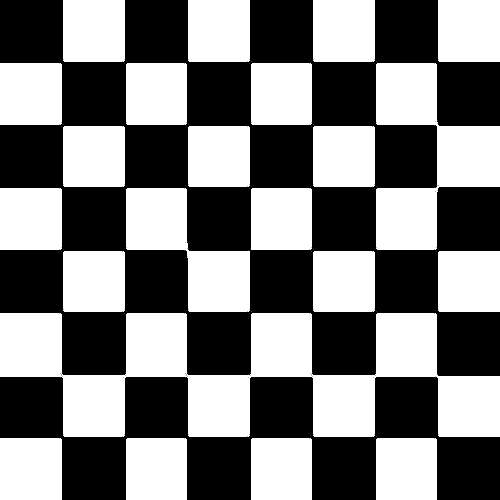
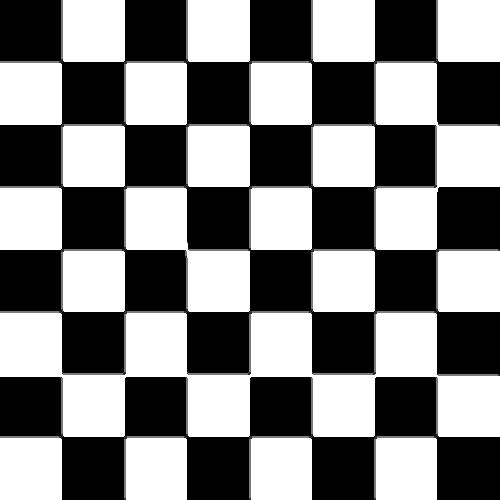
Implementando o high boost corretamente

diff --git a/gradiente/Scritps/Script.py b/gradiente/Scritps/Script.py
@@ -4,69 +4,85 @@ lua1_gray = Imagem('../Imagens/Lua1_gray.jpg')
 chessboard_inv = Imagem('../Imagens/chessboard_inv.png')
 img02 = Imagem('../Imagens/img02.jpg')
 
+print('Lua1_Gray')
+
 lua1_gray.filtro_passa_baixa()
+
+print('Sobel')
 lua1_gray.sobel()
 lua1_gray.magnitude_gradiente()
 lua1_gray.direcao_gradiente()
 lua1_gray.selecao_gradientes()
 # print(lua1_gray.max_locais)
-lua1_gray.bordas()
+lua1_gray.high_boost(0.5)
 lua1_gray.salvar_imagem('../Testes/Sobel/Lua1_gray.png')
 
+print('Prewitt')
 lua1_gray.prewitt()
 lua1_gray.magnitude_gradiente()
 lua1_gray.direcao_gradiente()
 lua1_gray.selecao_gradientes()
-lua1_gray.bordas()
+lua1_gray.high_boost(0.5)
 lua1_gray.salvar_imagem('../Testes/Prewitt/Lua1_gray.png')
 
+print("Scharr")
 lua1_gray.scharr()
 lua1_gray.magnitude_gradiente()
 lua1_gray.direcao_gradiente()
 lua1_gray.selecao_gradientes()
-lua1_gray.bordas()
+lua1_gray.high_boost(0.5)
 lua1_gray.salvar_imagem('../Testes/Scharr/Lua1_gray.png')
 
+print('Chessboard_inv')
 chessboard_inv.filtro_passa_baixa()
+
+print('Sobel')
 chessboard_inv.sobel()
 chessboard_inv.magnitude_gradiente()
 chessboard_inv.direcao_gradiente()
 chessboard_inv.selecao_gradientes()
-chessboard_inv.bordas()
+chessboard_inv.high_boost(0.5)
 chessboard_inv.salvar_imagem('../Testes/Sobel/chessboard_inv.png')
 
+print('Prewitt')
 chessboard_inv.prewitt()
 chessboard_inv.magnitude_gradiente()
 chessboard_inv.direcao_gradiente()
 chessboard_inv.selecao_gradientes()
-chessboard_inv.bordas()
+chessboard_inv.high_boost(0.5)
 chessboard_inv.salvar_imagem('../Testes/Prewitt/chessboard_inv.png')
 
+print("Scharr")
 chessboard_inv.scharr()
 chessboard_inv.magnitude_gradiente()
 chessboard_inv.direcao_gradiente()
 chessboard_inv.selecao_gradientes()
-chessboard_inv.bordas()
+chessboard_inv.high_boost(0.5)
 chessboard_inv.salvar_imagem('../Testes/Scharr/chessboard_inv.png')
 
+print("img02")
 img02.filtro_passa_baixa()
+
+print('Sobel')
 img02.sobel()
 img02.magnitude_gradiente()
 img02.direcao_gradiente()
 img02.selecao_gradientes()
-img02.bordas()
+img02.high_boost(0.5)
 img02.salvar_imagem('../Testes/Sobel/img02.png')
 
+print('Prewitt')
 img02.prewitt()
 img02.magnitude_gradiente()
 img02.direcao_gradiente()
 img02.selecao_gradientes()
-img02.bordas()
+img02.high_boost(0.5)
 img02.salvar_imagem('../Testes/Prewitt/img02.png')
 
+print("Scharr")
 img02.scharr()
 img02.magnitude_gradiente()
 img02.direcao_gradiente()
 img02.selecao_gradientes()
-img02.bordas()
+img02.high_boost(0.5)
 img02.salvar_imagem('../Testes/Scharr/img02.png')

diff --git a/gradiente/Scritps/Imagem.py b/gradiente/Scritps/Imagem.py
@@ -15,7 +15,7 @@ class Imagem:
         cv2.imwrite(nome.replace('.png', '_Gy.png'), self.gy)
         cv2.imwrite(nome.replace('.png', '_magnitude.png'), self.imagem_magnitude)
         cv2.imwrite(nome.replace('.png', '_direcao.png'), self.imagem_direcao)
-        cv2.imwrite(nome.replace('.png', '_bordas.png'), self.imagem_bordas)
+        cv2.imwrite(nome.replace('.png', '_high_boost.png'), self.imagem_high_boost)
 
 
     def median(self, vet):
@@ -110,14 +110,16 @@ class Imagem:
                     if (mag_ij > mag_x and mag_ij > mag_y):
                         self.max_locais.append((i,j))
 
-    def bordas(self):
-        self.imagem_bordas = self.imagem.copy()
-        for i in range(0,self.altura):
-            for j in range(0,self.largura):
-                self.imagem_bordas[i][j] = 0
-                
-        for (x,y) in self.max_locais:
-            self.imagem_bordas[x][y] = 255
+
+    def high_boost(self, k):
+        self.imagem_high_boost = self.imagem.copy()
+        for i in range(0, self.altura):
+            for j in range(0, self.largura):
+                self.imagem_high_boost[i][j] = np.uint8(min(255, int(self.imagem_high_boost[i][j])+k*int(self.imagem_magnitude[i][j])))
+            # self.imagem_high_boost[ml[0]][ml[1]] = 
+        # for i in range(0,self.altura):
+        #     for j in range(0,self.largura):
+        #         self.imagem_high_boost[i][j] = min(255, self.imagem_high_boost[i][j]+self.imagem_magnitude[i][j])
 
     def sobel(self):
         self.gx = self.imagem.copy()
